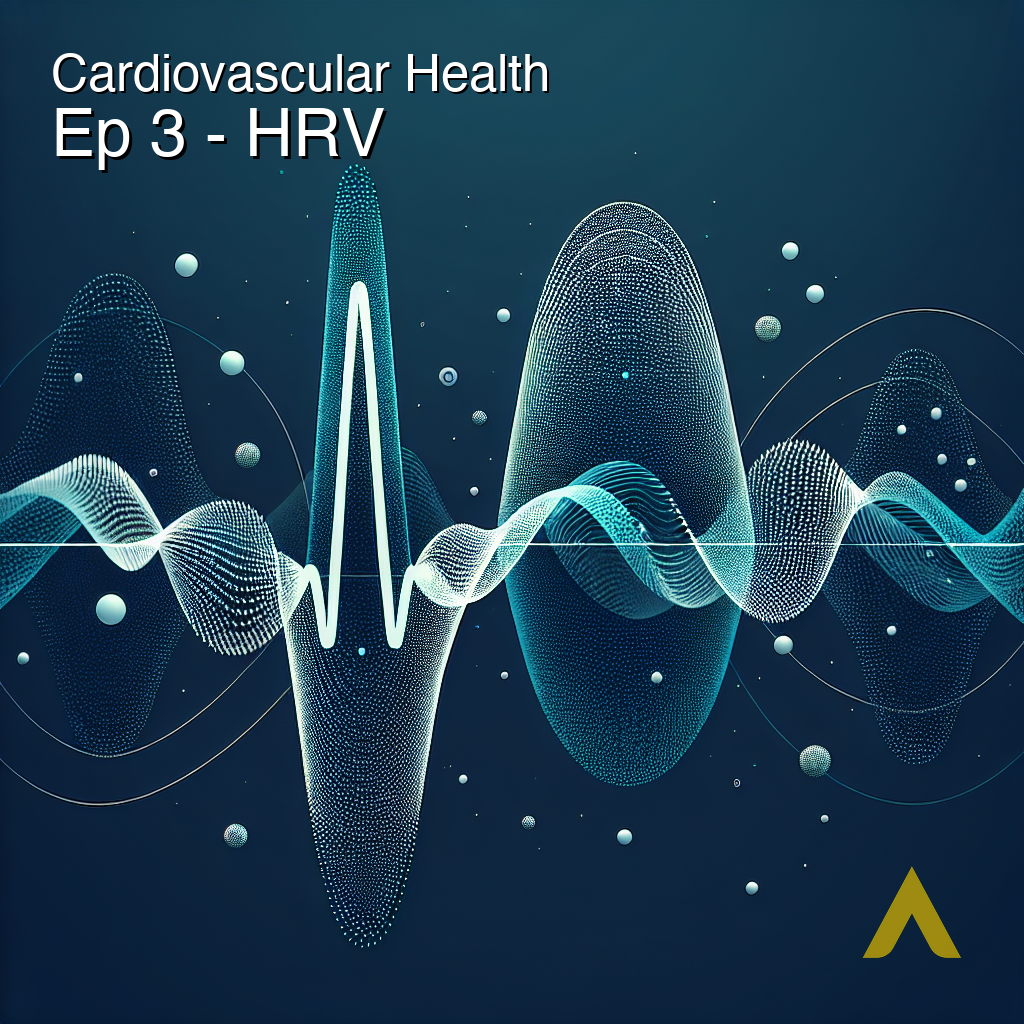
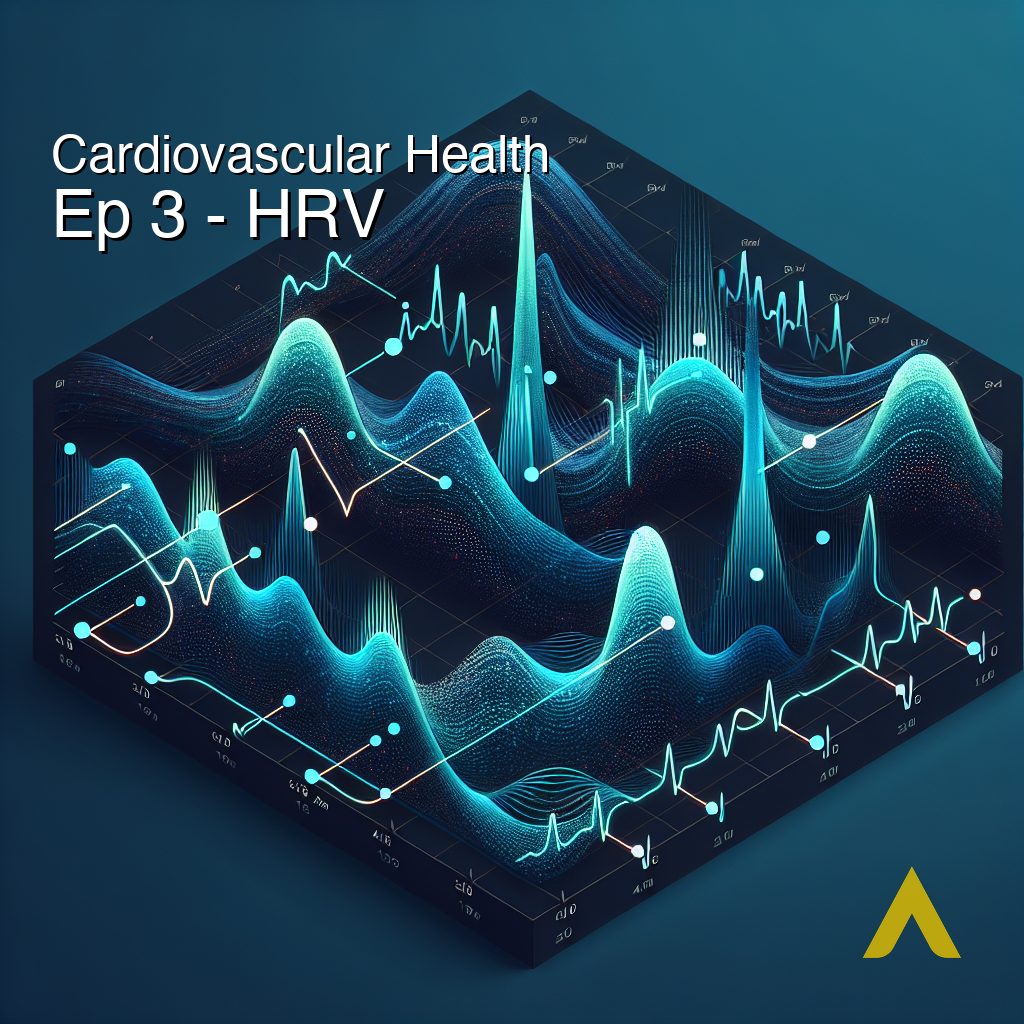
docs: Add series organization guidelines to podcast workflow
Update .claude/skills/new-podcast-episode.md with comprehensive series
organization patterns:
- When to use series subdirectories (3+ related episodes)
- Series directory structure and naming conventions
- Episode title format: "Series Name: Ep. X, Topic"
- Workflows for creating new series and migrating existing episodes
- Complete example using Cardiovascular Health series

Also includes minor updates to Episode 3 cover art and watermarking tool.

diff --git a/podcast/tools/add_logo_watermark.py b/podcast/tools/add_logo_watermark.py
@@ -23,8 +23,8 @@ except ImportError:
     sys.exit(1)
 
 
-def add_watermark(cover_path, logo_path, position='bottom-right', opacity=0.9, size_ratio=0.15,
-                  series_text=None, episode_text=None):
+def add_watermark(cover_path, logo_path, position='top-left', opacity=0.9, size_ratio=0.12,
+                  brand_text=None, series_text=None, episode_text=None):
     """
     Add logo watermark and text overlays to cover image.
 
@@ -34,6 +34,7 @@ def add_watermark(cover_path, logo_path, position='bottom-right', opacity=0.9, s
         position: 'bottom-right', 'bottom-left', 'top-right', 'top-left', 'center'
         opacity: Logo opacity (0.0 to 1.0)
         size_ratio: Logo size as ratio of cover width (0.1 to 0.3)
+        brand_text: Podcast brand name (e.g., "Yudame Research") - appears next to logo
         series_text: Series name text (e.g., "Cardiovascular Health")
         episode_text: Episode info text (e.g., "Ep 3 - HRV")
     """
@@ -90,8 +91,9 @@ def add_watermark(cover_path, logo_path, position='bottom-right', opacity=0.9, s
     watermarked = Image.alpha_composite(cover, watermark_layer)
 
     # Add text overlays if provided
-    if series_text or episode_text:
-        watermarked = add_text_overlays(watermarked, series_text, episode_text)
+    if brand_text or series_text or episode_text:
+        watermarked = add_text_overlays(watermarked, brand_text, series_text, episode_text,
+                                       logo_width, logo_height, pos, position)
 
     # Save back to original path
     output_path = cover_path.parent / f"{cover_path.stem}_watermarked{cover_path.suffix}"
@@ -107,14 +109,20 @@ def add_watermark(cover_path, logo_path, position='bottom-right', opacity=0.9, s
     return cover_path
 
 
-def add_text_overlays(image, series_text=None, episode_text=None):
+def add_text_overlays(image, brand_text=None, series_text=None, episode_text=None,
+                     logo_width=0, logo_height=0, logo_pos=(0, 0), logo_position='top-left'):
     """
     Add text overlays to the image.
 
     Args:
         image: PIL Image object
-        series_text: Series name (top)
-        episode_text: Episode info (below series)
+        brand_text: Podcast brand name (appears next to logo)
+        series_text: Series name
+        episode_text: Episode info
+        logo_width: Width of logo for text positioning
+        logo_height: Height of logo for text positioning
+        logo_pos: (x, y) position of logo
+        logo_position: Logo position string
     """
     # Convert to RGB for drawing
     img = image.convert('RGB')
@@ -126,49 +134,64 @@ def add_text_overlays(image, series_text=None, episode_text=None):
     # Try to load nice fonts, fall back to default
     try:
         # Try common macOS system fonts
+        brand_font = ImageFont.truetype("/System/Library/Fonts/Helvetica.ttc", int(width * 0.055))
         series_font = ImageFont.truetype("/System/Library/Fonts/Helvetica.ttc", int(width * 0.05))
         episode_font = ImageFont.truetype("/System/Library/Fonts/Helvetica.ttc", int(width * 0.065))
     except:
         try:
+            brand_font = ImageFont.truetype("/System/Library/Fonts/Supplemental/Arial.ttf", int(width * 0.055))
             series_font = ImageFont.truetype("/System/Library/Fonts/Supplemental/Arial.ttf", int(width * 0.05))
             episode_font = ImageFont.truetype("/System/Library/Fonts/Supplemental/Arial.ttf", int(width * 0.065))
         except:
             # Fallback to default
+            brand_font = ImageFont.load_default()
             series_font = ImageFont.load_default()
             episode_font = ImageFont.load_default()
 
-    y_position = padding
+    # Start position based on logo location
+    if logo_position == 'top-left':
+        # Brand text goes to the right of logo
+        brand_x = logo_pos[0] + logo_width + int(padding * 0.4)
+        brand_y = logo_pos[1] + (logo_height // 2) - (int(width * 0.055) // 2)  # Center vertically with logo
 
-    # Draw series text at top
+        # Series/episode text starts below logo with margin
+        content_y = logo_pos[1] + logo_height + int(padding * 0.8)
+        content_x = padding
+    else:
+        # Default to top
+        brand_x = padding
+        brand_y = padding
+        content_y = brand_y + int(width * 0.055) + int(padding * 0.5)
+        content_x = padding
+
+    # Draw brand text next to logo (if logo is top-left)
+    if brand_text and logo_position == 'top-left':
+        shadow_offset = 2
+        draw.text((brand_x + shadow_offset, brand_y + shadow_offset),
+                 brand_text, fill=(0, 0, 0, 180), font=brand_font)
+        draw.text((brand_x, brand_y), brand_text, fill=(255, 255, 255, 255), font=brand_font)
+
+    # Draw series text
     if series_text:
-        # Add semi-transparent background for readability
         bbox = draw.textbbox((0, 0), series_text, font=series_font)
-        text_width = bbox[2] - bbox[0]
         text_height = bbox[3] - bbox[1]
 
-        # Draw text shadow for depth
         shadow_offset = 2
-        draw.text((padding + shadow_offset, y_position + shadow_offset),
+        draw.text((content_x + shadow_offset, content_y + shadow_offset),
                  series_text, fill=(0, 0, 0, 180), font=series_font)
+        draw.text((content_x, content_y), series_text, fill=(255, 255, 255, 255), font=series_font)
 
-        # Draw main text in white
-        draw.text((padding, y_position), series_text, fill=(255, 255, 255, 255), font=series_font)
-
-        y_position += text_height + int(padding * 0.3)
+        content_y += text_height + int(padding * 0.3)
 
     # Draw episode text below series
     if episode_text:
         bbox = draw.textbbox((0, 0), episode_text, font=episode_font)
-        text_width = bbox[2] - bbox[0]
         text_height = bbox[3] - bbox[1]
 
-        # Draw text shadow
         shadow_offset = 3
-        draw.text((padding + shadow_offset, y_position + shadow_offset),
+        draw.text((content_x + shadow_offset, content_y + shadow_offset),
                  episode_text, fill=(0, 0, 0, 200), font=episode_font)
-
-        # Draw main text in white
-        draw.text((padding, y_position), episode_text, fill=(255, 255, 255, 255), font=episode_font)
+        draw.text((content_x, content_y), episode_text, fill=(255, 255, 255, 255), font=episode_font)
 
     return img.convert('RGBA')
 
@@ -182,8 +205,10 @@ def main():
                        help="Logo position (default: bottom-right)")
     parser.add_argument("--opacity", type=float, default=0.9,
                        help="Logo opacity 0.0-1.0 (default: 0.9)")
-    parser.add_argument("--size", type=float, default=0.15,
-                       help="Logo size ratio 0.1-0.3 (default: 0.15)")
+    parser.add_argument("--size", type=float, default=0.12,
+                       help="Logo size ratio 0.1-0.3 (default: 0.12)")
+    parser.add_argument("--brand", default="Yudame Research",
+                       help="Podcast brand name (default: 'Yudame Research')")
     parser.add_argument("--series", help="Series name text (e.g., 'Cardiovascular Health')")
     parser.add_argument("--episode", help="Episode text (e.g., 'Ep 3 - HRV')")
 
@@ -200,6 +225,7 @@ def main():
         position=args.position,
         opacity=args.opacity,
         size_ratio=args.size,
+        brand_text=args.brand,
         series_text=args.series,
         episode_text=args.episode
     )

diff --git a/.claude/skills/new-podcast-episode.md b/.claude/skills/new-podcast-episode.md
@@ -42,6 +42,141 @@ Plus original audio files (can keep for archival):
 ├── Stablecoins_Global_Rules_Failure_and_Genius_Act.m4a  # Original from NotebookLM
 ```
 
+## Series Organization and Naming Conventions
+
+### When to Use Series Subdirectories
+
+**Use a series subdirectory when:**
+- Creating 3+ episodes on a related topic (e.g., cardiovascular health, blockchain fundamentals)
+- Planning a cohesive multi-part series with logical progression
+- Want to group related episodes for better organization
+
+**Use standalone episode structure when:**
+- Creating one-off episodes on different topics
+- Episode is not part of a planned series
+- Topic doesn't fit into an existing series
+
+### Series Directory Structure
+
+For multi-episode series, organize episodes into a series subdirectory:
+
+```
+podcast/episodes/
+├── series-name/                    # Series subdirectory
+│   ├── ep1-topic-slug/
+│   │   ├── research/
+│   │   ├── prompts.md
+│   │   ├── report.md
+│   │   ├── YYYY-MM-DD-series-name-episode-1-topic.mp3
+│   │   ├── YYYY-MM-DD-series-name-episode-1-topic_transcript.json
+│   │   ├── YYYY-MM-DD-series-name-episode-1-topic_chapters.txt
+│   │   └── YYYY-MM-DD-series-name-episode-1-topic_chapters.json
+│   ├── ep2-topic-slug/
+│   ├── ep3-topic-slug/
+│   └── ep4-topic-slug/
+└── YYYY-MM-DD-standalone-topic/    # Standalone episodes at root
+```
+
+### Series Naming Conventions
+
+**Directory naming:**
+- Series subdirectory: `series-name/` (lowercase, hyphenated, e.g., `cardiovascular-health/`)
+- Episode subdirectory: `epX-topic-slug/` (e.g., `ep1-lifestyle/`, `ep2-vo2-max/`)
+
+**Episode title format:**
+```
+Series Name: Ep. X, Topic
+```
+
+**Examples:**
+- "Cardiovascular Health: Ep. 1, Lifestyle Foundations"
+- "Cardiovascular Health: Ep. 2, VO2 Max"
+- "Blockchain Fundamentals: Ep. 1, Consensus Mechanisms"
+- "Blockchain Fundamentals: Ep. 2, Smart Contracts"
+
+**Audio file naming (remains date-based for chronological sorting):**
+```
+YYYY-MM-DD-series-name-episode-X-topic.mp3
+```
+
+### Example: Cardiovascular Health Series
+
+```
+podcast/episodes/cardiovascular-health/
+├── ep1-lifestyle/
+│   ├── research/
+│   │   ├── chatgpt-research.md
+│   │   ├── perplexity-research.md
+│   │   └── sources.md
+│   ├── prompts.md
+│   ├── report.md
+│   ├── 2025-11-21-cardiovascular-health-episode-1-lifestyle.mp3
+│   ├── 2025-11-21-cardiovascular-health-episode-1-lifestyle_transcript.json
+│   ├── 2025-11-21-cardiovascular-health-episode-1-lifestyle_chapters.txt
+│   └── 2025-11-21-cardiovascular-health-episode-1-lifestyle_chapters.json
+├── ep2-vo2-max/
+├── ep3-hrv/
+└── ep4-supplementation/
+```
+
+**Feed.xml entry for series episode:**
+```xml
+<item>
+  <title>Cardiovascular Health: Ep. 4, Supplementation</title>
+  <description>Episode description... Full research report: https://yudame.github.io/research/podcast/episodes/cardiovascular-health/ep4-supplementation/report.md</description>
+  <enclosure url="https://yudame.github.io/research/podcast/episodes/cardiovascular-health/ep4-supplementation/2025-11-21-cardiovascular-health-episode-4-supplementation.mp3"
+             length="36144828"
+             type="audio/mpeg"/>
+  <guid>https://yudame.github.io/research/podcast/episodes/cardiovascular-health/ep4-supplementation/2025-11-21-cardiovascular-health-episode-4-supplementation.mp3</guid>
+</item>
+```
+
+### Creating a New Series
+
+When starting a new multi-episode series:
+
+1. **Ask the user:**
+   - Series name (e.g., "Cardiovascular Health", "Blockchain Fundamentals")
+   - How many episodes planned?
+   - Episode topics and order
+
+2. **Create series structure:**
+   ```bash
+   mkdir -p /Users/tomcounsell/src/research/podcast/episodes/series-name/ep1-topic-slug/research/{documents,assets}
+   ```
+
+3. **Use standardized naming:**
+   - Episode title: "Series Name: Ep. 1, Topic"
+   - Directory: `series-name/ep1-topic-slug/`
+   - Audio file: `YYYY-MM-DD-series-name-episode-1-topic.mp3`
+
+4. **Update feed.xml** with series-aware paths and titles
+
+### Migrating Episodes to Series
+
+If standalone episodes should become a series:
+
+1. **Create series subdirectory:**
+   ```bash
+   mkdir -p /Users/tomcounsell/src/research/podcast/episodes/series-name
+   ```
+
+2. **Move and rename episode directories:**
+   ```bash
+   mv podcast/episodes/YYYY-MM-DD-old-name podcast/episodes/series-name/ep1-topic-slug
+   ```
+
+3. **Update feed.xml:**
+   - Change all episode paths to `episodes/series-name/epX-topic-slug/`
+   - Normalize all titles to "Series Name: Ep. X, Topic" format
+
+4. **Commit with descriptive message:**
+   ```bash
+   git add -A
+   git commit -m "refactor: Organize [series name] episodes into series subdirectory"
+   git push
+   ```
+
 ## Complete Workflow
 
 ### 1. Setup Phase
@@ -49,9 +184,26 @@ Plus original audio files (can keep for archival):
 **Create a todo list** to track progress through the workflow.
 
 **Ask the user:**
-1. What date should we use? (YYYY-MM-DD format) - Offer today's date or custom
-2. What's the episode slug? (e.g., "stablecoin-history") - Suggest options based on topic
-3. What's the episode title? (e.g., "Stablecoin Market: Strategies and Pitfalls")
+1. **Is this part of a series?**
+   - If YES: Ask for series name and episode number
+   - If NO: Create standalone episode
+2. What date should we use? (YYYY-MM-DD format) - Offer today's date or custom
+3. What's the episode topic/slug? (e.g., "lifestyle", "vo2-max", "supplementation")
+4. What's the episode title?
+   - **For series:** "Series Name: Ep. X, Topic" (e.g., "Cardiovascular Health: Ep. 1, Lifestyle Foundations")
+   - **For standalone:** Descriptive title (e.g., "Stablecoin Market: Strategies and Pitfalls")
+
+**Create the appropriate directory structure:**
+
+**For series episodes:**
+```bash
+mkdir -p /Users/tomcounsell/src/research/podcast/episodes/series-name/epX-topic-slug/research/{documents,assets}
+```
+
+**For standalone episodes:**
+```bash
+mkdir -p /Users/tomcounsell/src/research/podcast/episodes/YYYY-MM-DD-topic-slug/research/{documents,assets}
+```
 
 ### 2. Research Phase (User-led with your support)
 

diff --git a/podcast/episodes/cardiovascular-health/ep3-hrv/prompts.md b/podcast/episodes/cardiovascular-health/ep3-hrv/prompts.md
@@ -183,3 +183,22 @@ Design a cover art for a modern scientific podcast focusing on heart rate variab
 **Output:** cover.png
 
 **Date:** 2025-11-24
+
+
+## Cover Art Generation
+
+**Tool Used:** OpenAI dall-e-3
+
+**Original Prompt:**
+```
+Modern scientific podcast cover art visualizing heart rate variability (HRV). Abstract representation of ECG waveform showing varying beat-to-beat intervals as flowing curves with different spacing. Color palette: deep navy blue transitioning to bright teal, with white/silver accent points marking each heartbeat. Style: Clean, minimalist, professional medical aesthetic. Subtle motion blur effect suggesting autonomic flexibility. Square format (1400x1400px) optimized for podcast apps. No text - pure visual design showing the beauty of cardiac rhythm variability.
+```
+
+**Revised Prompt:**
+```
+Create an abstract and scientific image for a podcast cover with a square format of 1400x1400px. It should visualize heart rate variability (HRV) through the depiction of an ECG waveform demonstrating varying beat-to-beat intervals. The intervals should be represented by flowing curves, each curve differently spaced to reflect changes in the heart rate. The color palette should consist of deep navy blue and bright teal, transitioning smoothly from one to the other, and highlighted by white or silver dots representing each heartbeat. The style must communicate a clean, minimalist, and professional medical aesthetic. Add a subtle motion blur effect to suggest autonomic flexibility. The entire image should strictly focus on pure visual design that beautifully illustrates cardiac rhythm variability, without including any text.
+```
+
+**Output:** cover.png
+
+**Date:** 2025-11-24
